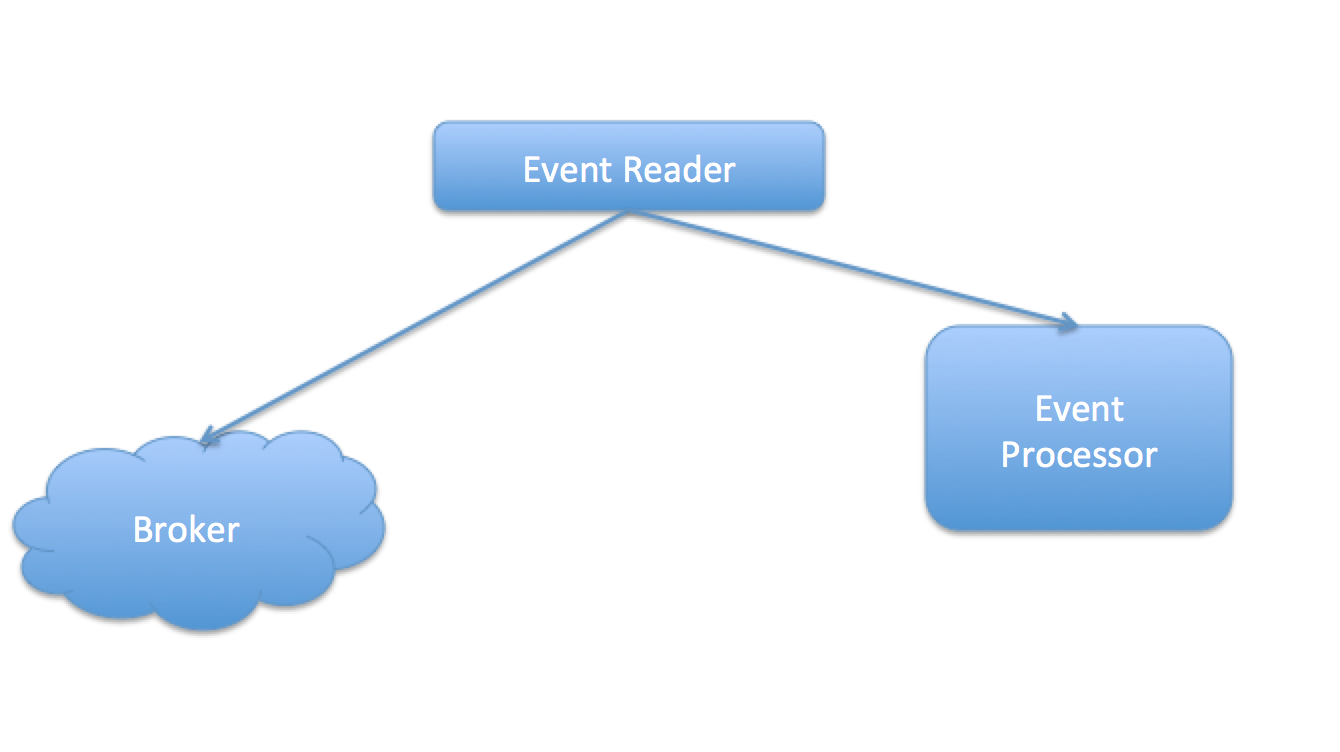
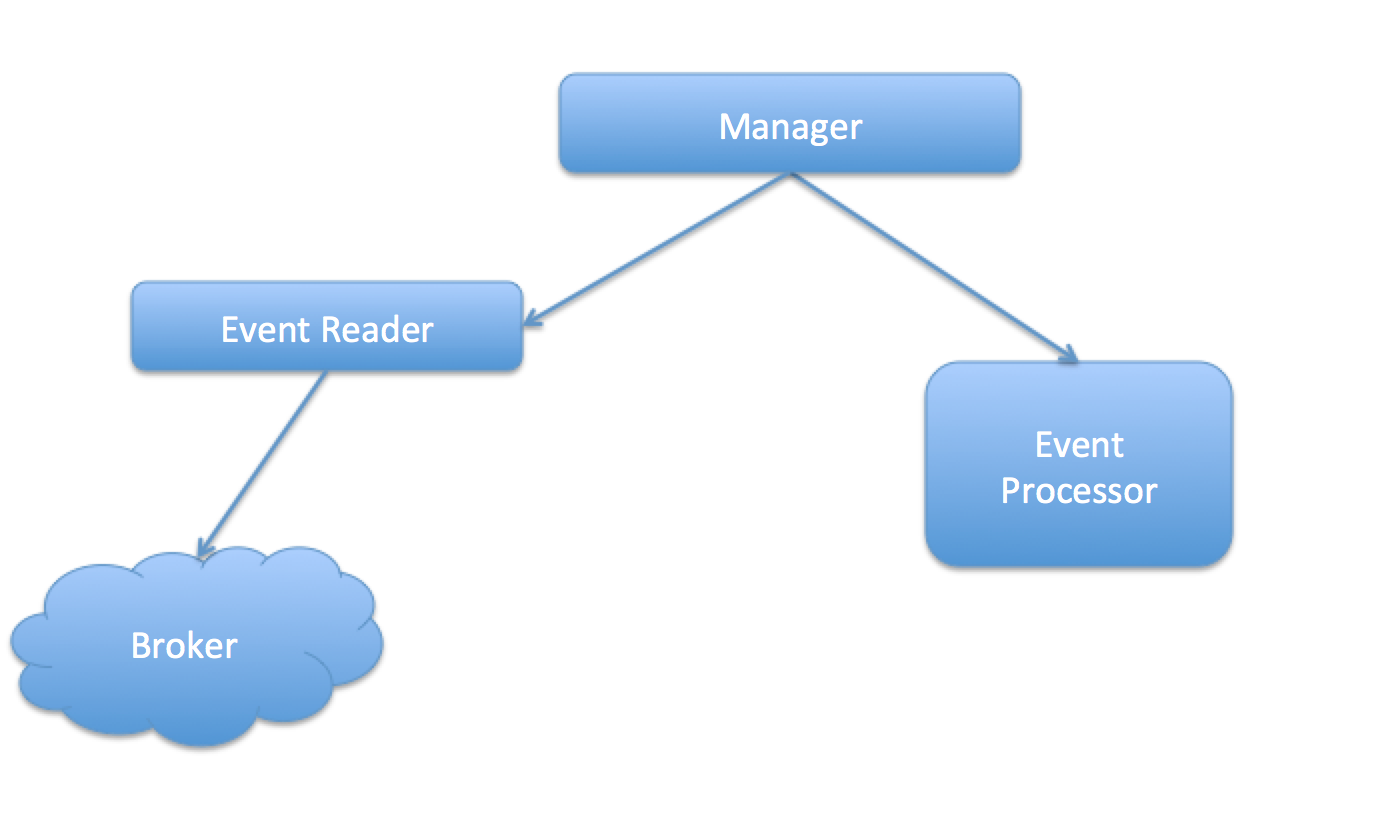
update event design doc

Changed region(s): [[0.0, 0.0612, 0.9485, 0.9176]]

diff --git a/backend/event/design.md b/backend/event/design.md
@@ -31,6 +31,7 @@ The schema:
 
 ## 3.3 Event publisher
 The event producer read events from `event db`, and publish them to event borker.
+
 ### 3.3.1 How to Read events
 Read status whos staus is created, or status is pending but already expired.
 ### 3.3.2 How to publish
@@ -48,14 +49,16 @@ The producer will start when the service start, each micro-service constains an 
 ![Image](./producer.png)
 
 # 4. Event Consumer
-Event consumer contains two part: `event reader`, `event processor`
-## 4.1 Event reader
+Event consumer contains two part: `reader`, `processor`, `manager`
+## 4.1 Reader
 Event Reader read events from broker, and call the processor.
-## 4.2 Event processor
-All Processor have the same entrance, and handle the event.
-## 4.3 How to start
+## 4.2 Processor
+All Processor have the same entrance, and handle the event. and event.
+## 4.3 Manager
+Manager is the control center of consumer, it call reader to fetch events from broker, and then call the processor.
+## 4.4 How to start
 The consumer will start when the service start.
-## 4.4 Work flow
-- Event reader, fetch events from broker.
+## 4.5 Work flow
+- Event reader fetch events from broker.
 - Call processor to process the events.
 ![Image](./consumer.png)
